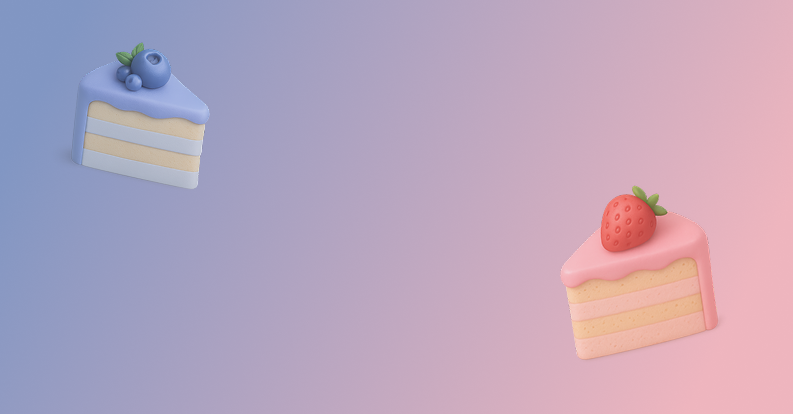
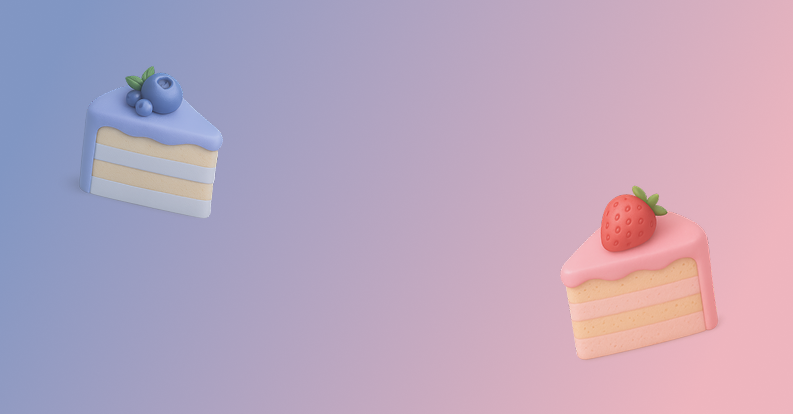
ui: wip

Changed region(s): [[0.0908, 0.087, 0.3026, 0.5217]]

diff --git a/lib/presentation/diary_list/diary_list_screen.dart b/lib/presentation/diary_list/diary_list_screen.dart
@@ -1,3 +1,5 @@
+import 'package:cake/config/color_config.dart';
+import 'package:cake/config/size_config.dart';
 import 'package:cake/presentation/diary_list/diary_list_view_model.dart';
 import 'package:flutter/material.dart';
 import 'package:provider/provider.dart';
@@ -8,6 +10,85 @@ class DiaryListScreen extends StatelessWidget {
   @override
   Widget build(BuildContext context) {
     final viewModel = context.watch<DiaryListViewModel>();
-    return Center(child: Text('list view'));
+
+    return CustomScrollView(
+      slivers: [
+        // 상단 버튼 두 개 (스크롤 시 사라졌다 나타남)
+        SliverAppBar(
+          automaticallyImplyLeading: false, // 뒤로가기 버튼 제거
+          backgroundColor: Colors.transparent,
+          surfaceTintColor: Colors.transparent,
+          elevation: 0,
+          floating: true, // 스크롤 올릴 때 바로 나타남
+          snap: true, // 빠르게 나타나고 사라짐
+          toolbarHeight: getHeight(40),
+          flexibleSpace: Padding(
+            padding: EdgeInsets.symmetric(
+              vertical: getHeight(10),
+              horizontal: getWidth(20),
+            ),
+            child: Row(
+              crossAxisAlignment: CrossAxisAlignment.center,
+              children: [
+                OutlinedButton(
+                  onPressed: () {},
+                  style: OutlinedButton.styleFrom(
+                    foregroundColor: ColorConfig.white,
+                    backgroundColor: ColorConfig.primary,
+                    side: BorderSide(color: ColorConfig.primary),
+                  ),
+                  child: Text(
+                    '최신순',
+                    style: TextStyle(fontSize: 15, fontWeight: FontWeight.bold),
+                  ),
+                ),
+                SizedBox(width: getWidth(15)),
+                OutlinedButton(
+                  onPressed: () {},
+                  style: OutlinedButton.styleFrom(
+                    foregroundColor: ColorConfig.gray3,
+                    backgroundColor: ColorConfig.white,
+                    side: BorderSide(color: ColorConfig.gray4),
+                  ),
+                  child: Text(
+                    '등록순',
+                    style: TextStyle(fontSize: 15, fontWeight: FontWeight.bold),
+                  ),
+                ),
+              ],
+            ),
+          ),
+        ),
+        // 리스트
+        SliverList(
+          delegate: SliverChildBuilderDelegate(
+            (context, index) {
+              return Padding(
+                padding: const EdgeInsets.symmetric(horizontal: 16.0),
+                child: Card(
+                  margin: const EdgeInsets.symmetric(vertical: 8.0),
+                  child: ListTile(
+                    leading: CircleAvatar(
+                      backgroundColor: Theme.of(context).primaryColor,
+                      child: Text(
+                        '${index + 1}',
+                        style: const TextStyle(color: Colors.white),
+                      ),
+                    ),
+                    title: Text('다이어리 항목 ${index + 1}'),
+                    subtitle: Text(
+                      '${DateTime.now().add(Duration(days: index)).toString().substring(0, 10)}',
+                    ),
+                    trailing: const Icon(Icons.arrow_forward_ios),
+                    onTap: () {},
+                  ),
+                ),
+              );
+            },
+            childCount: 10, // 10개 아이템
+          ),
+        ),
+      ],
+    );
   }
 }

diff --git a/lib/presentation/main/main_screen.dart b/lib/presentation/main/main_screen.dart
@@ -22,7 +22,7 @@ class MainScreen extends StatelessWidget {
           // 상단 고정 배너
           Container(
             width: double.infinity,
-            height: getHeight(220), // 배너 높이 조정 가능
+            height: getHeight(230),
             decoration: BoxDecoration(
               image: DecorationImage(
                 image: AssetImage('assets/images/main_banner.png'),
@@ -36,6 +36,31 @@ class MainScreen extends StatelessWidget {
                   offset: const Offset(0, 1), // 위쪽으로 그림자 효과
                 ),
               ],
+            ),
+            child: Center(
+              child: Column(
+                mainAxisAlignment: MainAxisAlignment.center,
+                children: [
+                  SizedBox(height: getHeight(35)),
+                  Text(
+                    '오늘은 어떤 하루였나요?',
+                    style: TextStyle(
+                      fontSize: getWidth(18), // 사이즈는 조정하세요
+                      color: ColorConfig.white,
+                      fontWeight: FontWeight.bold,
+                    ),
+                  ),
+                  Text(
+                    'piece of cake',
+                    style: TextStyle(
+                      fontFamily: 'DCC',
+                      fontSize: getWidth(40),
+                      color: ColorConfig.white,
+                      // fontWeight: FontWeight.bold,
+                    ),
+                  ),
+                ],
+              ),
             ),
           ),
           // 하단 탭 컨텐츠

diff --git a/lib/presentation/splash/splash_screen.dart b/lib/presentation/splash/splash_screen.dart
@@ -20,9 +20,26 @@ class SplashScreen extends StatelessWidget {
     }
 
     return Scaffold(
-      backgroundColor: ColorConfig.primary,
-      body: Center(
-        child: Image.asset('assets/logo/logo.png', width: getWidth(300)),
+      body: Container(
+        width: double.infinity,
+        height: double.infinity,
+        decoration: BoxDecoration(
+          gradient: LinearGradient(
+            begin: Alignment.topLeft,
+            end: Alignment.bottomRight,
+            colors: [ColorConfig.primary, ColorConfig.secondary],
+          ),
+        ),
+        child: Center(
+          child: Text(
+            'piece of cake',
+            style: TextStyle(
+              fontFamily: 'DCC',
+              fontSize: getWidth(48), // 크기는 조정하세요
+              color: ColorConfig.white,
+            ),
+          ),
+        ),
       ),
     );
   }

diff --git a/lib/presentation/diary_calendar/diary_calendar_screen.dart b/lib/presentation/diary_calendar/diary_calendar_screen.dart
@@ -8,6 +8,6 @@ class DiaryCalendarScreen extends StatelessWidget {
   @override
   Widget build(BuildContext context) {
     final viewModel = context.watch<DiaryCalendarViewModel>();
-    return Center(child: Text('calendar view'));
+    return SingleChildScrollView();
   }
 }

diff --git a/lib/core/extensions/color_extensions.dart b/lib/core/extensions/color_extensions.dart
@@ -1,0 +1,9 @@
+import 'dart:ui';
+
+extension StringColorExtension on String {
+  Color toColor() {
+    // 스트링 헥사코드를 Color로 변환하는 익스텐션
+    String hex = replaceAll('#', '');
+    return Color(int.parse('FF$hex', radix: 16));
+  }
+}
